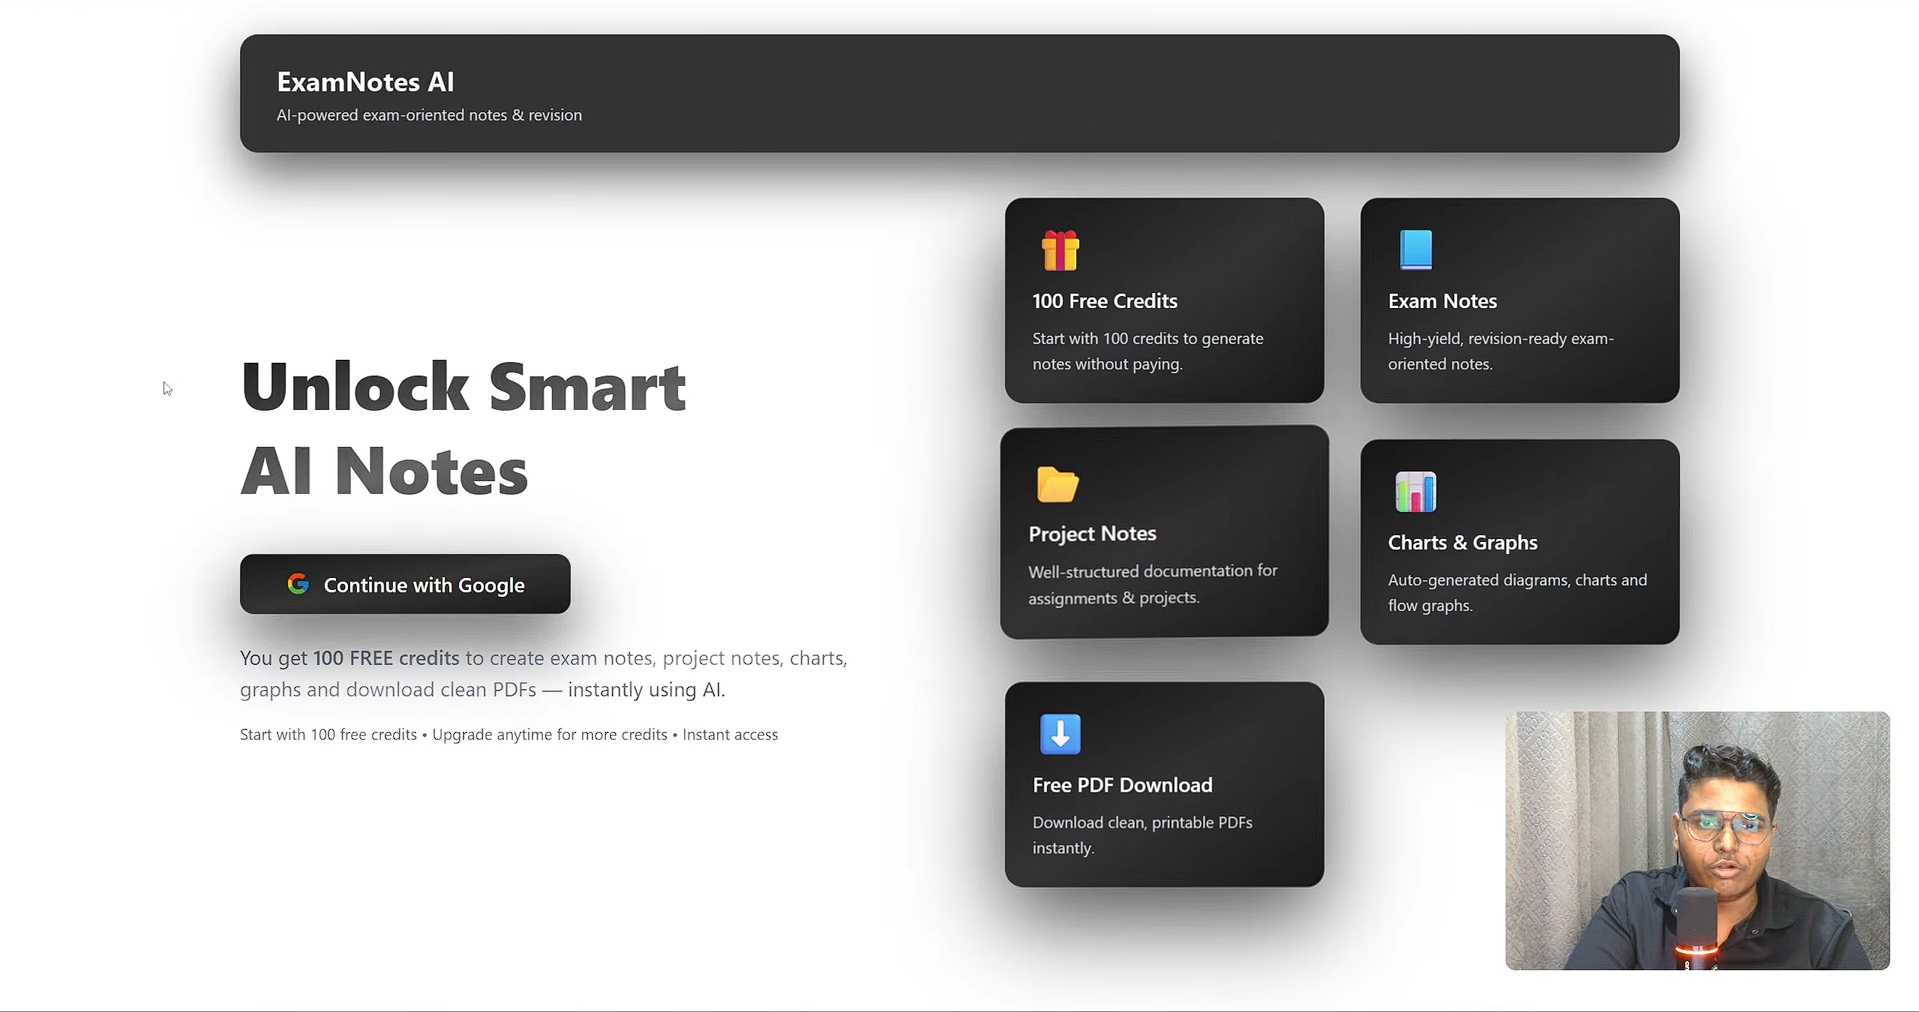
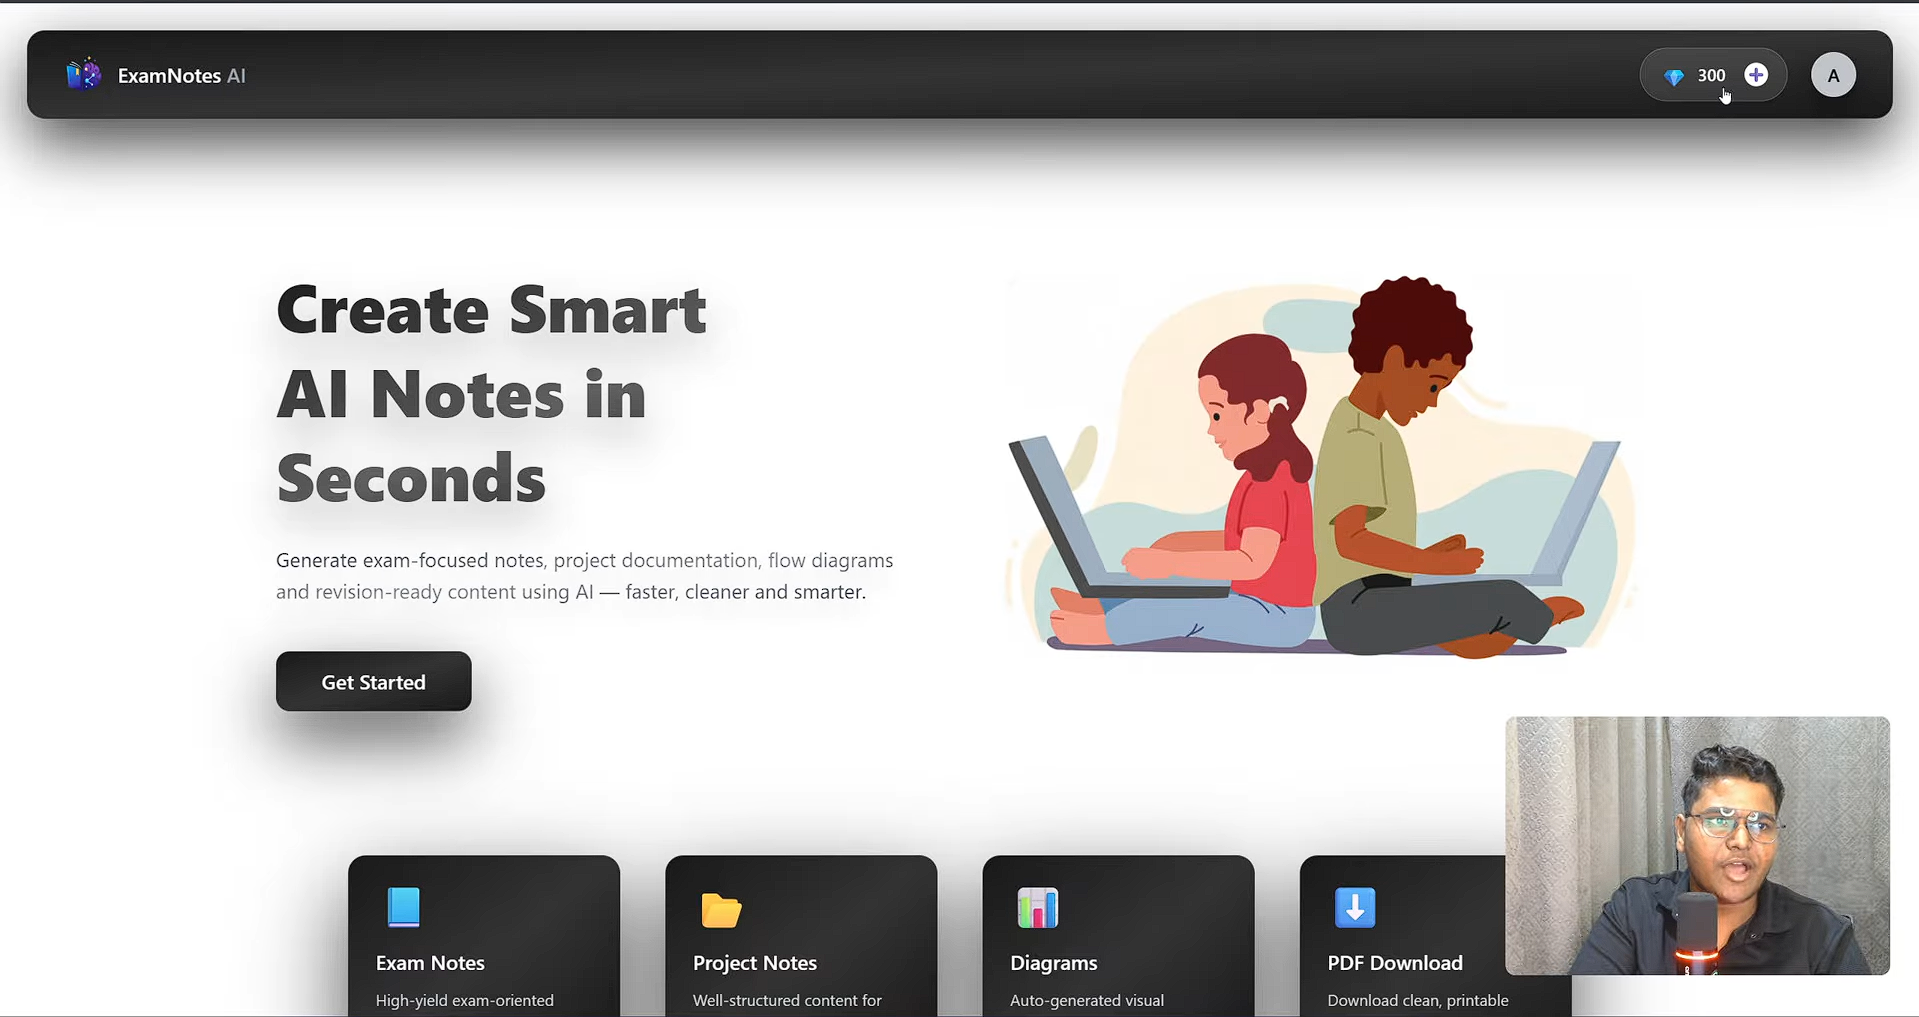
feat: integrate Redux for user state management and add NavBar component

diff --git a/client/src/components/NavBar.jsx b/client/src/components/NavBar.jsx
@@ -1,0 +1,36 @@
+import { motion } from 'framer-motion'
+import { useSelector } from 'react-redux';
+import logo from "../../public/logo.png"
+function NavBar() {
+  const { userData } = useSelector((state => state.user))
+  const credits = userData.user.credits
+  return (
+    <motion.div
+      initial={{ opacity: 0, y: -50 }}
+      animate={{ opacity: 1, y: 0 }}
+      transition={{ duration: 0.7 }}
+      whileTap={{ scale: 0.95 }}
+      className="relative z-50 mx-6 mt-6 rounded-2xl bg-gradient-to-br from-black/90 via-black/80 to-black/90 backdrop:backdrop-blur-2xl border border-white/10 shadow-[0_22px_55px_rgba(0,0,0,0.75)] flex items-center justify-between px-8 py-4">
+
+
+      {/* left */}
+      <div className='flex items-center gap-3'>
+        <img src={logo} alt="notes logo" className='w-9 h-9' />
+        <p className='text-lg hidden md:block text-white font-semibold'>NotesCrafter <span className='text-gray-400'>AI</span></p>
+      </div>
+
+      {/* right */}
+      <div className='flex items-center gap-6 relative'>
+        <div className='relative'>
+          <motion.div className='flex items-center gap-2 px-4'>
+            {/* make a button for credits here */}
+          </motion.div>
+        </div>
+
+        {/* make a profile circle div here when clicking it popups logout and dashboard */}
+      </div>
+    </motion.div>
+  )
+}
+
+export default NavBar

diff --git a/client/src/App.jsx b/client/src/App.jsx
@@ -1,17 +1,24 @@
-import { Routes, Route } from 'react-router-dom'
+import { Routes, Route, Navigate } from 'react-router-dom'
 import Home from './pages/Home'
 import Auth from './pages/Auth'
 import { useEffect } from 'react'
-import { getCurrentUser } from './services/api'
+import { getCurrentUser } from './services/api.js'
+import { useDispatch, useSelector } from 'react-redux'
 export const serverUrl = "http://localhost:8000"
 function App() {
+  const dispatch = useDispatch()
+
   useEffect(() => {
-    getCurrentUser()
-  }, [])
+    getCurrentUser(dispatch)
+  }, [dispatch])
+
+
+  const { userData } = useSelector((state) => state.user)
+  console.log(userData)
   return (
     <Routes>
-      <Route path='/' element={<Home />} />
-      <Route path='/auth' element={<Auth />} />
+      <Route path='/' element={userData ? <Home /> : <Navigate to="/auth" replace/>} />
+      <Route path='/auth' element={userData ? <Navigate to="/" replace /> : <Auth />} />
     </Routes>
   )
 }

diff --git a/client/src/main.jsx b/client/src/main.jsx
@@ -1,10 +1,15 @@
-import { StrictMode } from 'react'
+
 import { createRoot } from 'react-dom/client'
 import './index.css'
 import App from './App.jsx'
-import {BrowserRouter} from "react-router-dom"
+import { Provider } from 'react-redux'
+import { BrowserRouter } from "react-router-dom"
+import store from './redux/store.js'
 createRoot(document.getElementById('root')).render(
   <BrowserRouter>
-    <App />
+    <Provider store={store}>
+      <App />
+    </Provider>,
   </BrowserRouter>,
+
 )

diff --git a/client/src/services/api.js b/client/src/services/api.js
@@ -1,12 +1,14 @@
 import axios from "axios";
 import { serverUrl } from "../App";
+import { setUserData } from "../redux/userSlice.js";
 
-export const getCurrentUser = async () => {
+export const getCurrentUser = async (dispatch) => {
   try {
     const result = await axios.get(`${serverUrl}/api/user/currentuser`, {
       withCredentials: true,
     });
     console.log(result.data.user);
+    dispatch(setUserData(result.data))
   } catch (error) {
     console.error(error);
   }

diff --git a/client/src/redux/userSlice.js b/client/src/redux/userSlice.js
@@ -1,0 +1,15 @@
+import { createSlice } from "@reduxjs/toolkit";
+const userSlice = createSlice({
+  name: "user",
+  initialState: {
+    userData: null,
+  },
+  reducers: {
+    setUserData: (state, action) => {
+      state.userData = action.payload;
+    },
+  },
+});
+
+export const {setUserData} = userSlice.actions;
+export default userSlice.reducer;

diff --git a/client/src/pages/Home.jsx b/client/src/pages/Home.jsx
@@ -1,8 +1,10 @@
-import React from 'react'
+import NavBar from "../components/NavBar"
 
 function Home() {
   return (
-    <div>Home</div>
+    <div className="min-h-screen overflow-hidden bg-white text-black">
+      <NavBar />
+    </div>
   )
 }
 

diff --git a/client/src/redux/store.js b/client/src/redux/store.js
@@ -1,0 +1,8 @@
+import { configureStore } from '@reduxjs/toolkit'
+import userSlice from "./userSlice.js"
+
+export default configureStore({
+  reducer: {
+    user : userSlice
+  },
+})
